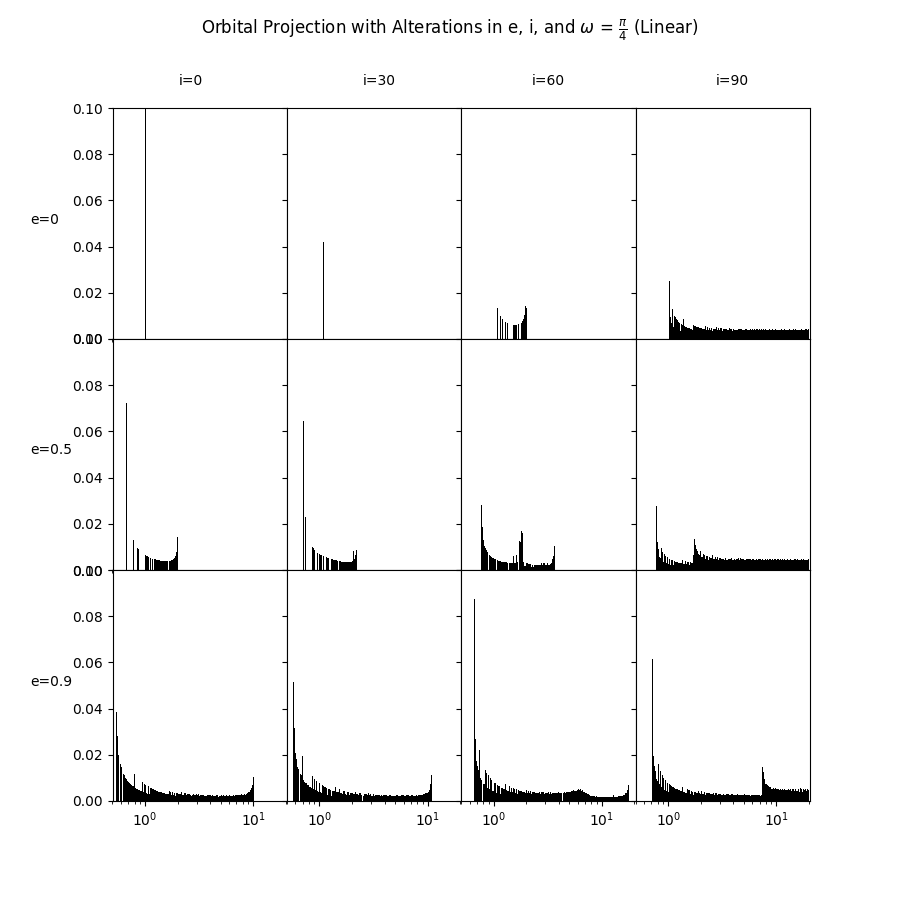
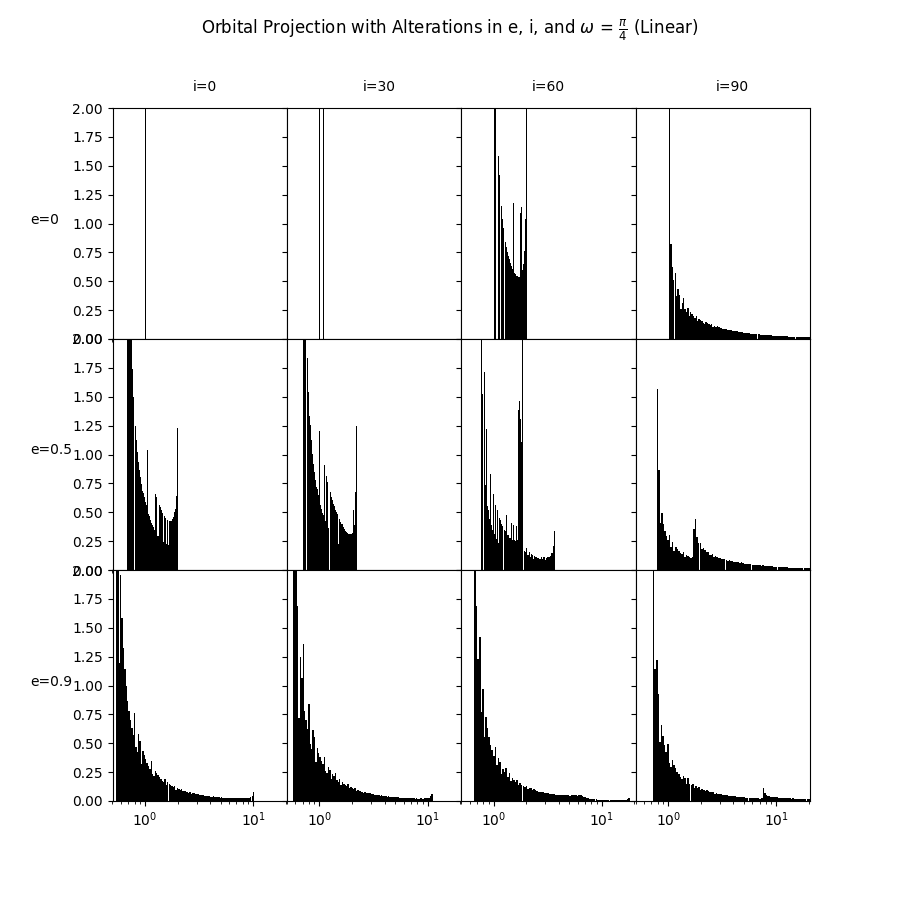
Reverted from using Density function in Histogram, fixed up texts and created the 8 plots for pi/4, pi/2, and 3pi/4

diff --git a/Sep.py b/Sep.py
@@ -393,8 +393,8 @@ def Rchange(param, coords = False):
             rlist.append(np.where(np.abs(r-r0)<=0.01, val, 0))
             xlist.append(np.where(np.abs(r-r0)<=0.01, x, None))
             ylist.append(np.where(np.abs(r-r0)<=0.01, y, None))
-    # if Linear == False:
-    # gc.collect()            
+    if Linear == False:
+        gc.collect()            
     return rlist, xlist, ylist
 
 def DataProj(t0 = 0.0, a=1.0, w = 0.0, W = 0.0, i = 0.0, e = 0.0, startinga = 1.25):
@@ -801,7 +801,7 @@ def DataHist(w = 0, step = 0.001, end = 10, Linear = True):
     
     start = time.perf_counter()
     
-    with Pool(processes = 12) as pool:
+    with Pool(processes = 8) as pool:
         totlist = pool.map(Rchange, param)
     
     
@@ -1001,43 +1001,52 @@ def MultiPlotHist(w = 0, step = 0.001, end = 10, Linear = True):
         fig.suptitle("Orbital Projection with Alterations in e, i, and "r"$\omega$ = $\frac{\pi}{4}$ (Linear)")
     else:
         fig.suptitle("Orbital Projection with Alterations in e, i, and "r"$\omega$ = $\frac{\pi}{4}$ (Log)")
-    # Iterates through each subplot in the 3x3 figure
+    # Iterates through each subplot in the 3x4 figure
     
     for j, ax  in enumerate(axs.flatten()):
         iterlist, x, y = totlist[j]
         # Convert list of arrays to a single array, filtering out zeros
         flat_data = np.concatenate([arr[arr != 0] for arr in iterlist])
+        
+        # Create variables for bin sizes
+        nbin = 200
+        amin = 0.5
+        amax = 21
+        # Make logbinsizes for all
+        logbinsize = (np.log10(amin)-np.log10(amax))/nbin
+        
         # Calculate weights for normalization
         # Check if this is wrong or not, cause of the np.ones_like()
-        weights = np.ones_like(flat_data) / len(flat_data)    
+        weights = np.abs(np.ones_like(flat_data) / (len(flat_data) * logbinsize))    
 
         # Creates the log spaced bins for our data
         # Stupid fix to stupid problems :)
         if j == 0 and Linear == True:
-            logbins = np.linspace(0.5,20,2000+1)
+            logbins = np.linspace(amin,amax,1000+1)
         else:
-            logbins = np.geomspace(flat_data.min(),flat_data.max(), 200+1)
+            logbins = np.geomspace(amin,amax, nbin)
         
         datahist, bins, patches = ax.hist(
             flat_data, bins=logbins, range=(0.5, end+0.5),
-            align="right", stacked=True, histtype="barstacked",
-            weights=weights
+            stacked=True, histtype="barstacked",
+            weights=weights,
+            # density = True
         )
 
         for patch in patches:
             patch.set_facecolor("black")
         ax.set_xlim(0.5,20.5)
-        ax.set_ylim(0,0.1)
+        ax.set_ylim(0,10)
         ax.set_xscale("log")
         
     
-    plt.text(1.25e-6,0.25,"e=0")
-    plt.text(1.25e-6,0.15,"e=0.5")
-    plt.text(1.25e-6,0.05,"e=0.9")
-    plt.text(3e-5,0.31,"i=0")
-    plt.text(1.5e-3,0.31,"i=30")
-    plt.text(5.5e-2,0.31,"i=60")
-    plt.text(2.75, 0.31,"i=90")
+    plt.text(1.25e-6,25,"e=0")
+    plt.text(1.25e-6,15,"e=0.5")
+    plt.text(1.25e-6,5,"e=0.9")
+    plt.text(4e-5,30.5,"i=0")
+    plt.text(1.5e-3,30.5,"i=30")
+    plt.text(5.5e-2,30.5,"i=60")
+    plt.text(2.75, 30.5,"i=90")
     if Linear == True:
         plt.savefig('/College Projects/Microlensing Separation/Figures/MultiHist_omega_pi_4_0001_Linear.png')
     else:
@@ -1048,7 +1057,7 @@ def MultiPlotHist(w = 0, step = 0.001, end = 10, Linear = True):
 
 if __name__ == "__main__":
     # rlist = MultiPlotProj(w = np.pi/4., startinga= 20)
-    rtemp = MultiPlotHist(w = np.pi/4, step = 0.001, end = 20, Linear = True)
+    rtemp = MultiPlotHist(w = np.pi/4, step = 0.001, end = 20, Linear = False)
 
 # x,y,t = OrbGeoAlt(a=1, e=0.0,w=np.pi/4, i = np.pi/6)
 # param = [0.5, 0.5, np.pi/2, 0]
